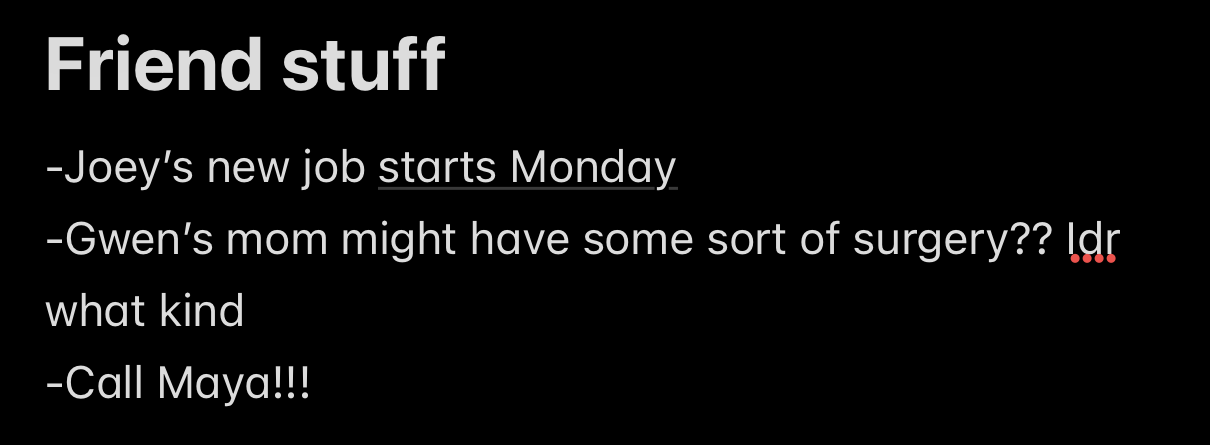
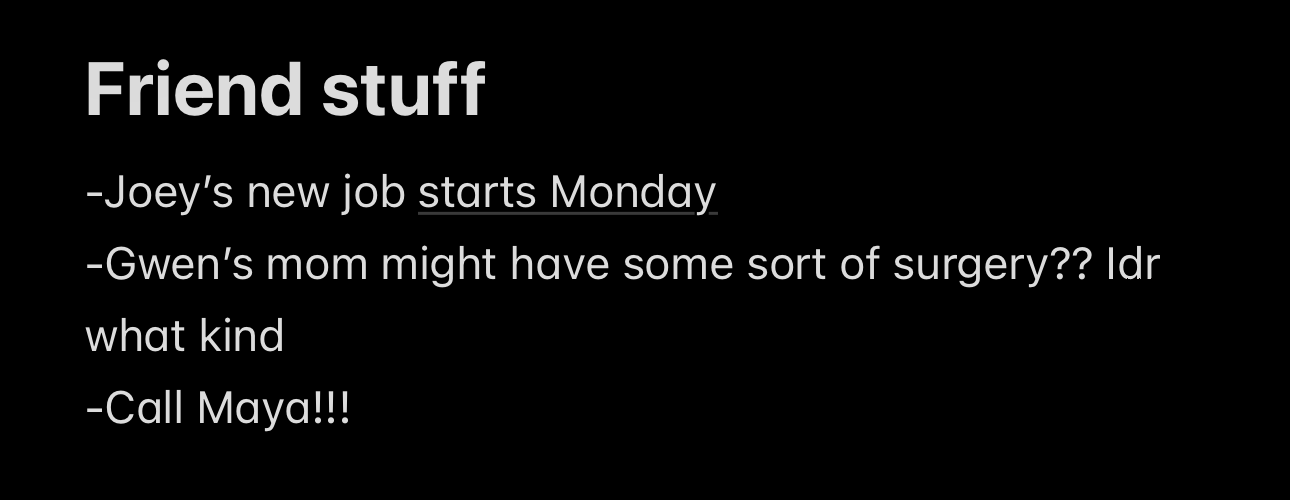
Notes screenshot: larger, roomier crop, spellcheck dots removed

diff --git a/index.html b/index.html
@@ -165,7 +165,7 @@
   .scrap--dm .when { display: block; margin-top: 6px; text-align: right; }
 
   /* Notes */
-  .scrap--notes { top: 43%; left: 0; width: 50%; }
+  .scrap--notes { top: 40%; left: 0; width: 64%; }
   /* A real Notes screenshot (dark mode), cropped to the note. */
   .scrap--notes .scrap-in img { display: block; width: 100%; height: auto; }
   .scrap--notes .scrap-in {
@@ -339,7 +339,7 @@
     .mess { height: 460px; }
     .scrap--text { width: 80%; }
     .scrap--dm { top: 20%; width: 74%; }
-    .scrap--notes { top: 42%; width: 66%; }
+    .scrap--notes { top: 40%; width: 86%; }
     .scrap--sticky { top: 50%; right: 0; width: 128px; }
     .scrap--sticky .scrap-in { min-height: 106px; font-size: 1.28rem; }
     .scrap--group { left: 10%; width: 78%; }
